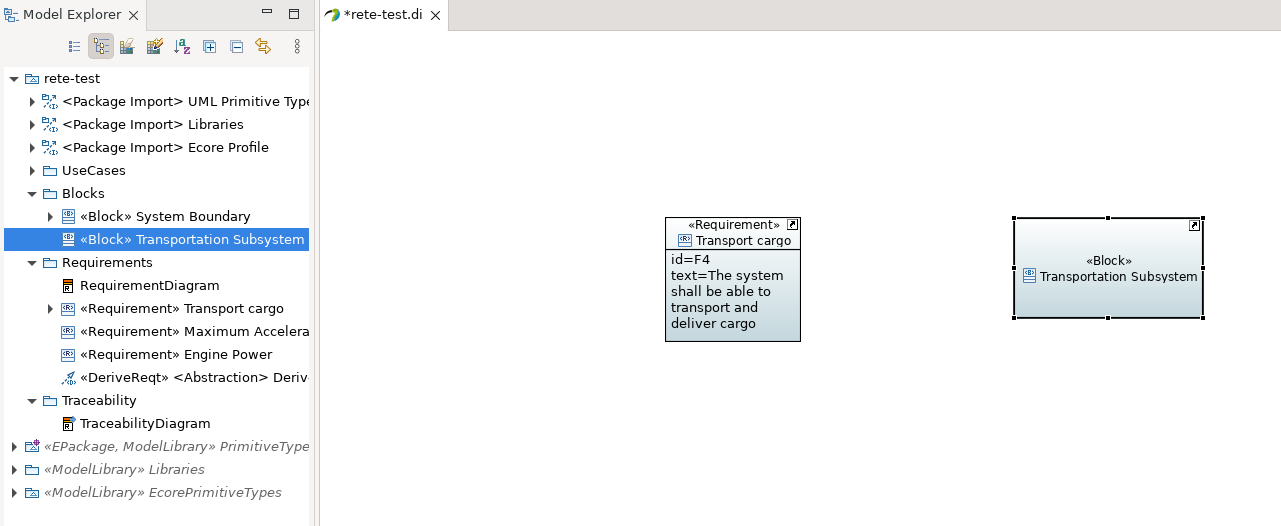
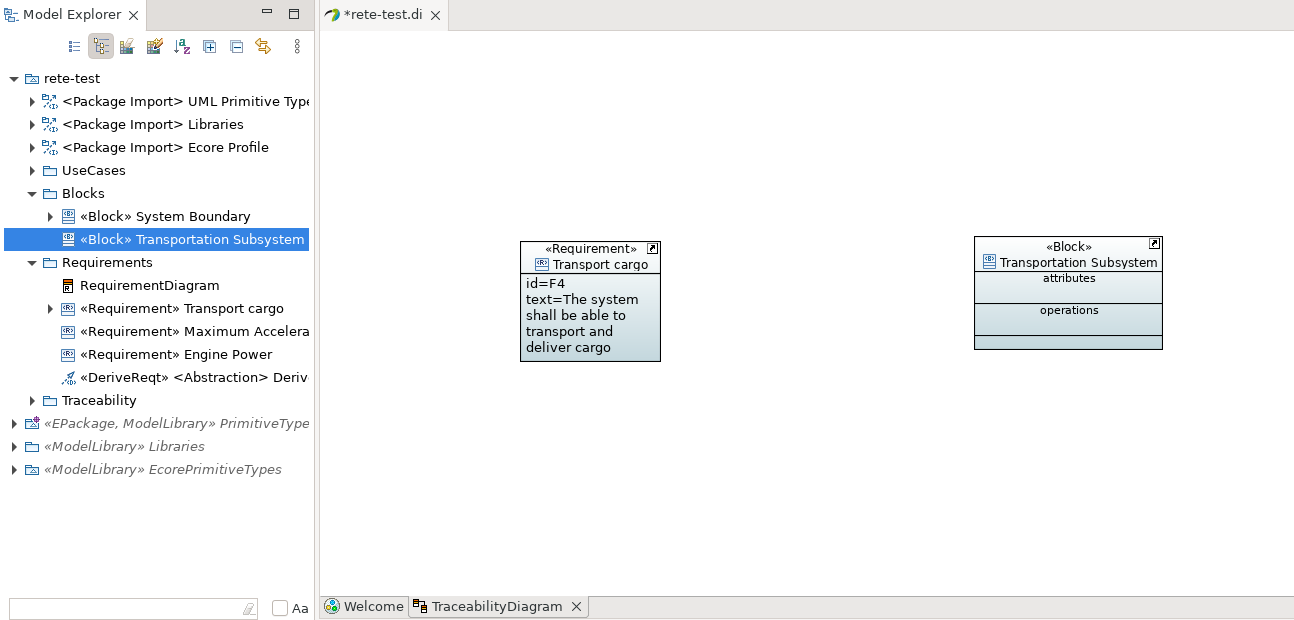
Modified traceability

Changed region(s): [[0.0, 0.0, 1.0, 1.0], [0.3747, 0.365, 0.6245, 0.6692], [0.7494, 0.365, 0.9368, 0.6084]]

diff --git a/docs/rete-req-and-uc-modeling-guidebook.md b/docs/rete-req-and-uc-modeling-guidebook.md
@@ -91,7 +91,9 @@ header: Informatikai Rendszertervezés (BMEVIMIAC01)
 
 ## Diagram létrehozás
 
-1. **Jobb katt** a kiválasztott _Package_-en (_Traceability_ ebben a példában) -> **New Diagram** -> **SysML 1.6 Requirement Diagram**.
+1. **Jobb katt** a kiválasztott _Package_-en (_Traceability_ ebben a példában) -> **New Diagram** -> **SysML 1.6 Block Definition Diagram**.
+
+![](../figs/trace-new-diag.png)
 
 2. **Drag-and-drop** használatával a **Model Explorer**-ből helyezzük rá a követelményt (_Transport Cargo_) a diagramra.
 
@@ -101,7 +103,9 @@ header: Informatikai Rendszertervezés (BMEVIMIAC01)
 
 ![](../figs/trace-block-from-me.png)
 
-4. Követelmény kielégítéséhez (_Satisfy_) a **Palette**-ről válasszuk ki a **satisfy**-t, majd kössük össze vele a két _Block_-unkat a _Requirement_-ünkkel. Figyeljünk a nyilak helyes irányára!
+4. Követelmény kielégítéséhez (_Satisfy_) a **Palette**-ről válasszuk ki a **Abstraction**-t, majd kössük össze vele a két _Block_-unkat a _Requirement_-ünkkel. Ezután a **Properties** ablakon a **Profile** fülön adjuk hozzá a **Satisfy** _Stereotype_-t. Figyeljünk rá, hogy a **Satisfy**-nak az **Applied Stereotypes** hasábban legyen, ezután okézzuk csak le.
 
 ![](../figs/trace-satisfy.png)
 ![](../figs/trace-satisfy-2.png)
+![](../figs/trace-satisfy-3.png)
+![](../figs/trace-satisfy-4.png)
